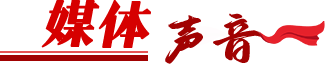
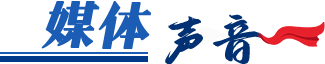
南水北调东线一期工程改为蓝色

diff --git a/网站/南水北调东线一期工程通水10周年/南水北调东线一期工程10周年-index.html b/网站/南水北调东线一期工程通水10周年/南水北调东线一期工程10周年-index.html
@@ -54,17 +54,17 @@
                 </div>
                 <div class="show-3item clearfix">
                     <div class="s3item">
-                        <img src="images_zt/demo2.jpg" alt="">
+                        <div><img src="images_zt/demo2.jpg" alt=""></div>
                         <h2><a href="" target="_blank" rel="noopener noreferrer">新闻标题新闻标题新闻标题新闻标题新闻标题新闻标题新闻标题新闻标题新闻标题新闻标题新闻标题新闻标题新闻标题 ...</a></h2>
                         <p>文字摘要文字摘要文字摘要文字摘要文字摘要文字摘要文字摘要文字摘要文字摘要文字摘要文字摘要文字摘... <a href="" target="_blank" rel="noopener noreferrer">[点击详情]</a></p>
                     </div>
                     <div class="s3item">
-                        <img src="images_zt/demo2.jpg" alt="">
+                        <div><img src="images_zt/demo2.jpg" alt=""></div>
                         <h2><a href="" target="_blank" rel="noopener noreferrer">新闻标题新闻标题新闻标题新闻标题新闻标题新闻标题新闻标题新闻标题新闻标题新闻标题新闻标题新闻标题新闻标题 ...</a></h2>
                         <p>文字摘要文字摘要文字摘要文字摘要文字摘要文字摘要文字摘要文字摘要文字摘要文字摘要文字摘要文字摘... <a href="" target="_blank" rel="noopener noreferrer">[点击详情]</a></p>
                     </div>
                     <div class="s3item">
-                        <img src="images_zt/demo2.jpg" alt="">
+                        <div><img src="images_zt/demo2.jpg" alt=""></div>
                         <h2><a href="" target="_blank" rel="noopener noreferrer">新闻标题新闻标题新闻标题新闻标题新闻标题新闻标题新闻标题新闻标题新闻标题新闻标题新闻标题新闻标题新闻标题 ...</a></h2>
                         <p>文字摘要文字摘要文字摘要文字摘要文字摘要文字摘要文字摘要文字摘要文字摘要文字摘要文字摘要文字摘... <a href="" target="_blank" rel="noopener noreferrer">[点击详情]</a></p>
                     </div>
@@ -128,14 +128,14 @@
                     <div class="sncj-row clearfix">
                         <div class="sncj-item">
                             <div class="sncj-citem">
-                                <img src="images_zt/demo3.jpg" alt="">
+                                <div><img src="images_zt/demo3.jpg" alt=""></div>
                                 <p><a href="" target="_blank" rel="noopener noreferrer">新闻标题新闻标题新闻标题新闻标题新闻标题新闻标题新闻标题.....</a></p>
                                 <a class="more3" href="" target="_blank" rel="noopener noreferrer">【点击详情】</a>
                             </div>
                         </div>
                         <div class="sncj-item">
                             <div class="sncj-citem">
-                                <img src="images_zt/demo3.jpg" alt="">
+                                <div><img src="images_zt/demo3.jpg" alt=""></div>
                                 <p><a href="" target="_blank" rel="noopener noreferrer">新闻标题新闻标题新闻标题新闻标题新闻标题新闻标题新闻标题.....</a></p>
                                 <a class="more3" href="" target="_blank" rel="noopener noreferrer">【点击详情】</a>
                             </div>
@@ -144,14 +144,14 @@
                     <div class="sncj-row clearfix">
                         <div class="sncj-item">
                             <div class="sncj-citem">
-                                <img src="images_zt/demo3.jpg" alt="">
+                                <div><img src="images_zt/demo3.jpg" alt=""></div>
                                 <p><a href="" target="_blank" rel="noopener noreferrer">新闻标题新闻标题新闻标题新闻标题新闻标题新闻标题新闻标题.....</a></p>
                                 <a class="more3" href="" target="_blank" rel="noopener noreferrer">【点击详情】</a>
                             </div>
                         </div>
                         <div class="sncj-item">
                             <div class="sncj-citem">
-                                <img src="images_zt/demo3.jpg" alt="">
+                                <div><img src="images_zt/demo3.jpg" alt=""></div>
                                 <p><a href="" target="_blank" rel="noopener noreferrer">新闻标题新闻标题新闻标题新闻标题新闻标题新闻标题新闻标题.....</a></p>
                                 <a class="more3" href="" target="_blank" rel="noopener noreferrer">【点击详情】</a>
                             </div>

diff --git a/网站/南水北调东线一期工程通水10周年/images_zt/nsbddxyqgc10zn-202311-global.css b/网站/南水北调东线一期工程通水10周年/images_zt/nsbddxyqgc10zn-202311-global.css
@@ -36,16 +36,16 @@ li {
 }
 /* user style */
 .main {
-  background-image: url('nsbddxyqgc10zn-202311-headerbg.jpg');
-  background-position: center top;
-  background-color: #f9f7f1;
+  background-image: url('nsbddxyqgc10zn-202311-headerbg.jpg'),url("nsbddxyqgc10zn-202311-bottombg.jpg");
+  background-position: center top,center bottom;
+  background-color: #bbe3fd;
   background-repeat: no-repeat;
   padding-bottom: 56px;
   box-sizing: border-box;
 }
 .header-word {
   /* text-align: center; */
-  padding-top: 150px;
+  padding-top: 66px;
 }
 .posre {
   position: relative;
@@ -53,9 +53,9 @@ li {
 }
 
 .header-word {
-  width: 603px;
-  height: 354px;
-  margin-left: 320px;
+  width: 924px;
+  height: 714px;
+  margin: 0 auto;
   animation: move1 1s 0.2s;
   -webkit-animation: move1 1s 0.2s;
   animation-fill-mode: backwards;
@@ -67,7 +67,7 @@ li {
     height: 0px;
   }
   to {
-    height: 388px;
+    height: 714px;
   }
 }
 @-webkit-keyframes move1 {
@@ -75,7 +75,7 @@ li {
     height: 0px;
   }
   to {
-    height: 388px;
+    height: 714px;
   }
 }
 @-moz-keyframes move1 {
@@ -83,7 +83,7 @@ li {
     height: 0px;
   }
   to {
-    height: 388px;
+    height: 714px;
   }
 }
 @-o-keyframes move1 {
@@ -91,7 +91,7 @@ li {
     height: 0px;
   }
   to {
-    height: 388px;
+    height: 714px;
   }
 }
 section + section {
@@ -136,7 +136,7 @@ section + section {
 }
 .slick-mod2 .slick-item h2 {
   font-size: 25px;
-  color: #a10202;
+  color: #1b5cb4;
   font-weight: normal;
   margin-bottom: 20px;
 }
@@ -251,6 +251,14 @@ section + section {
   width: 383px;
   height: 267px;
 }
+.s3item div {
+  height: 267px;
+  overflow: hidden;
+}
+.s3item img:hover {
+  transform: scale(1.1);
+  transition: all 0.5s;
+}
 .s3item h2 {
   font-size: 23px;
   font-weight: normal;
@@ -311,9 +319,20 @@ section + section {
   position: relative;
   z-index: 20;
 }
-.sncj-citem img {
+.sncj-citem div {
   float: left;
+  width: 320px;
+  height: 223px;
+  overflow: hidden;
   margin-right: 16px;
+}
+.sncj-citem img {
+  width: 320px;
+  height: 223px;
+}
+.sncj-citem img:hover {
+  transform: scale(1.1);
+  transition: all 0.5s;
 }
 .sncj-citem p {
   font-size: 18px;
@@ -337,7 +356,7 @@ section + section {
 }
 footer {
   text-align: center;
-  background-color: #c90303;
+  background-color: #3A91D8;
   padding: 25px 0;
   color: #ffffff;
 }
